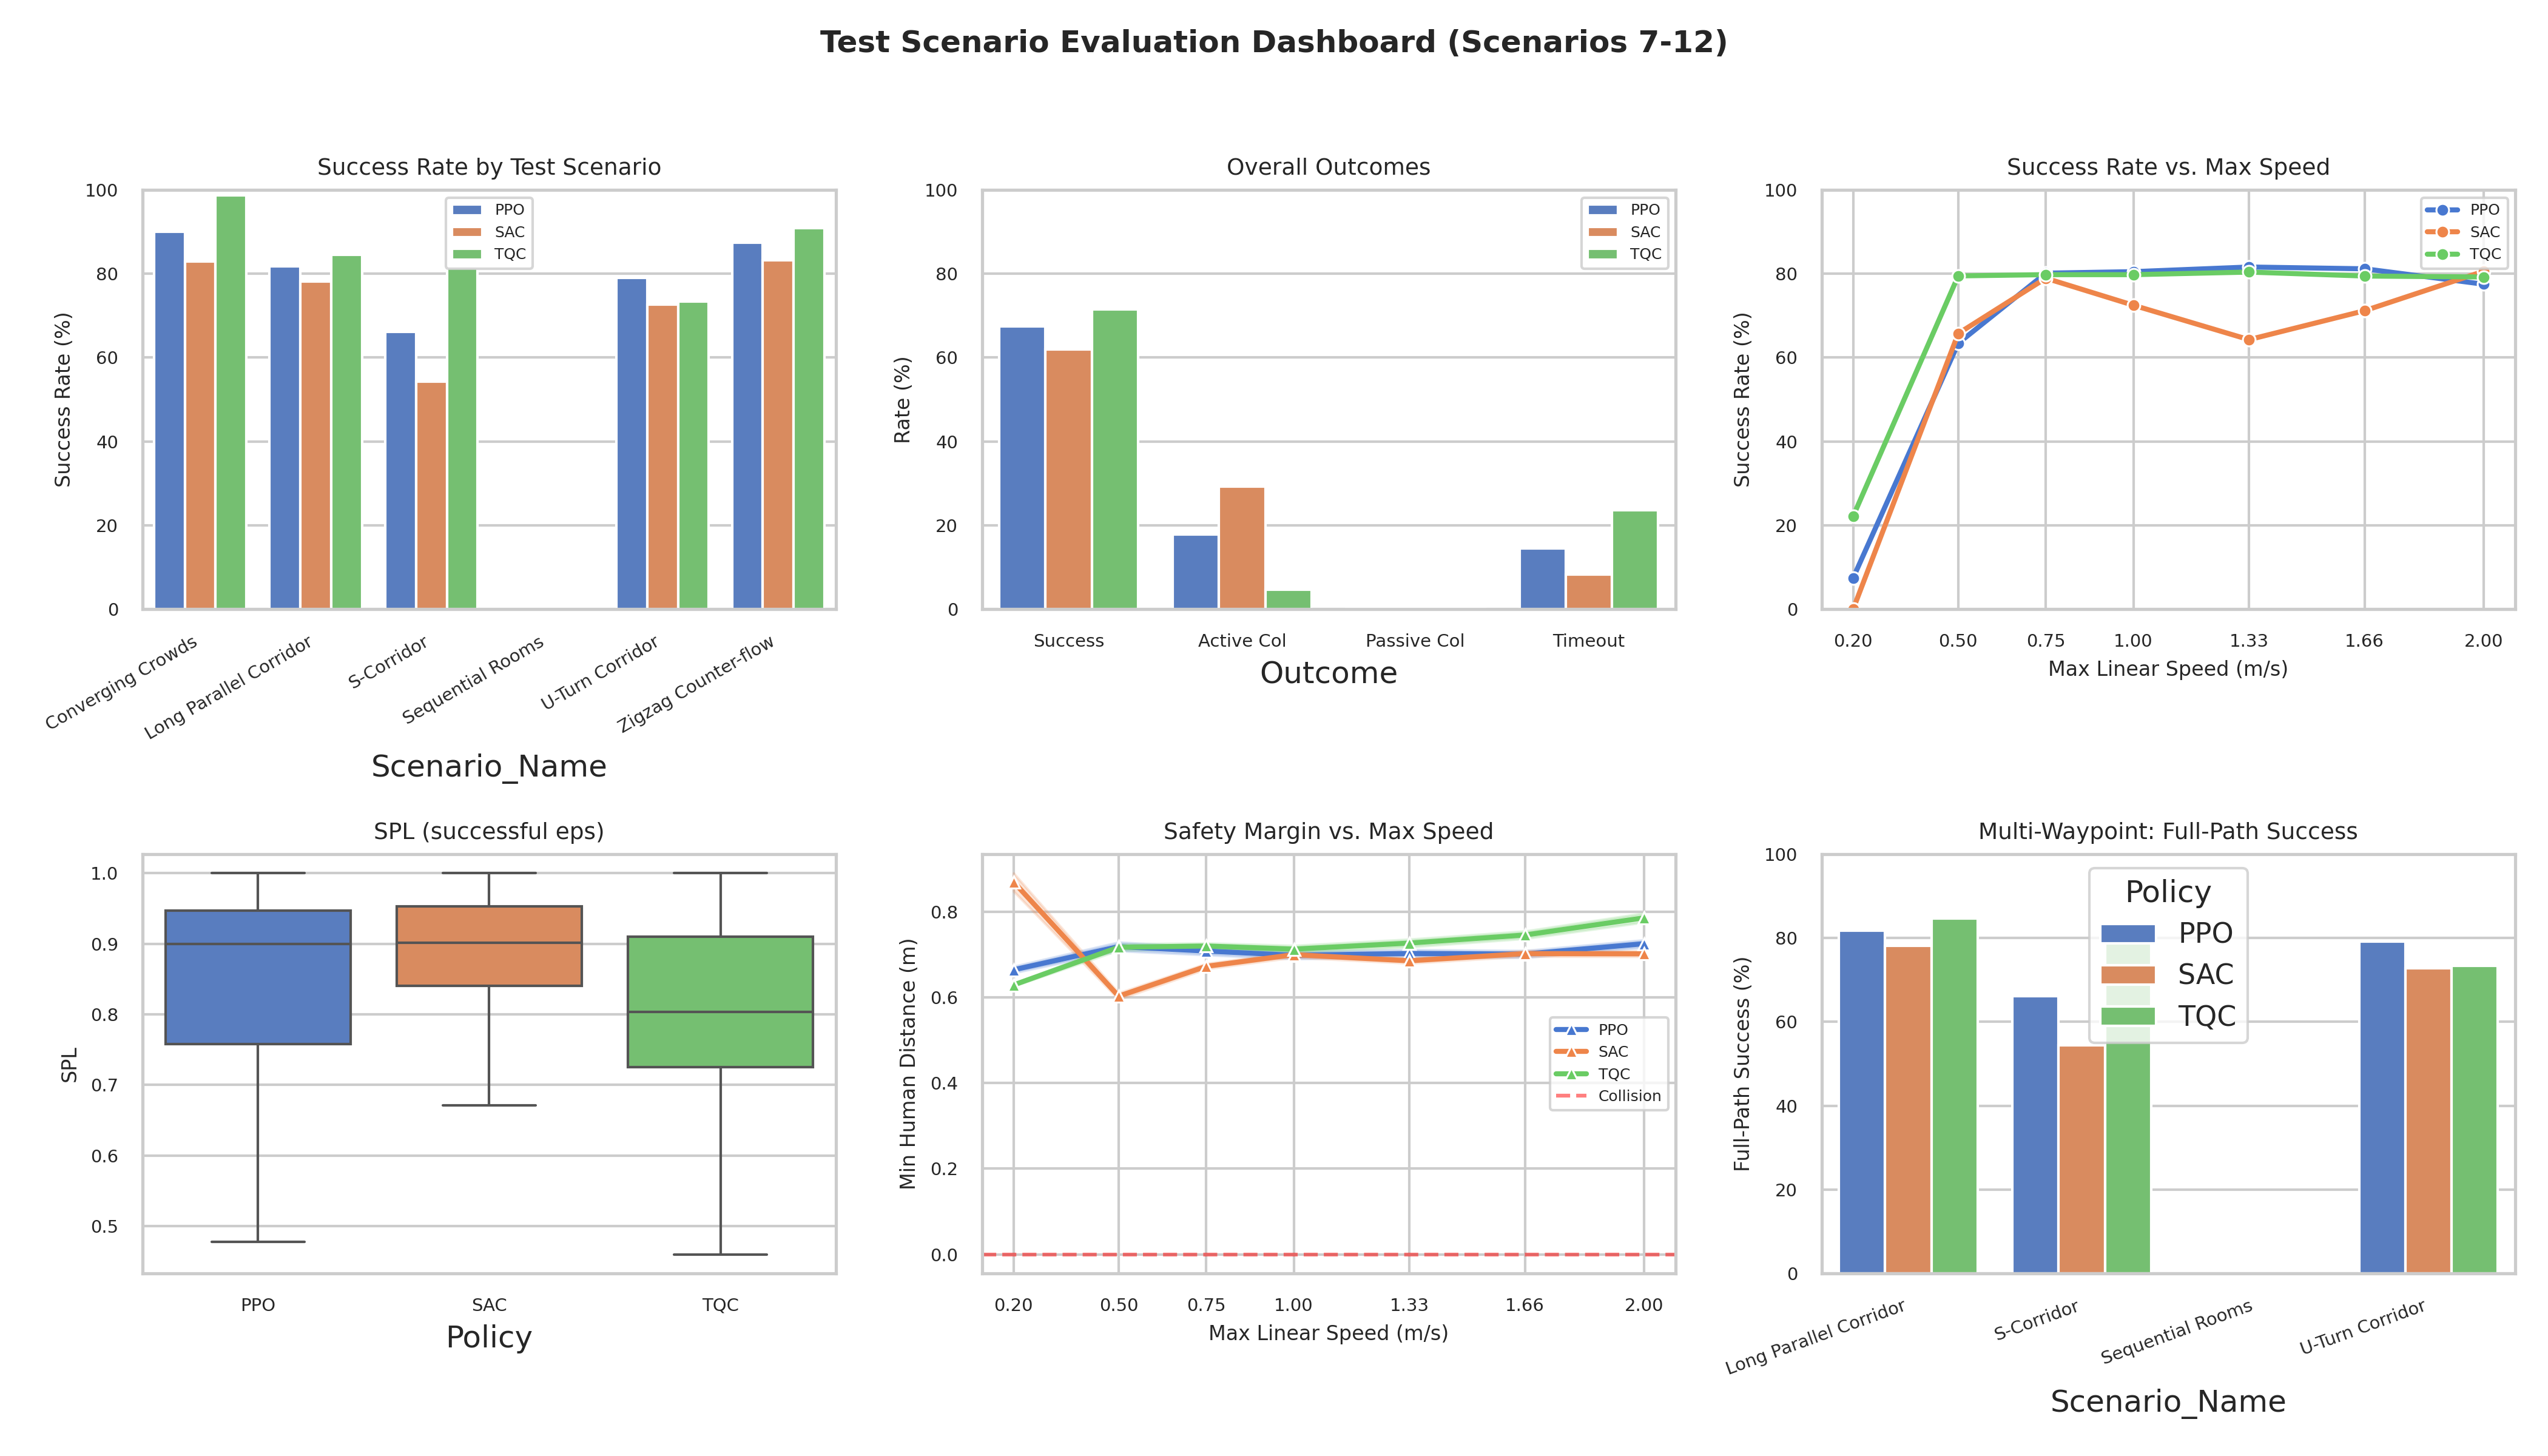
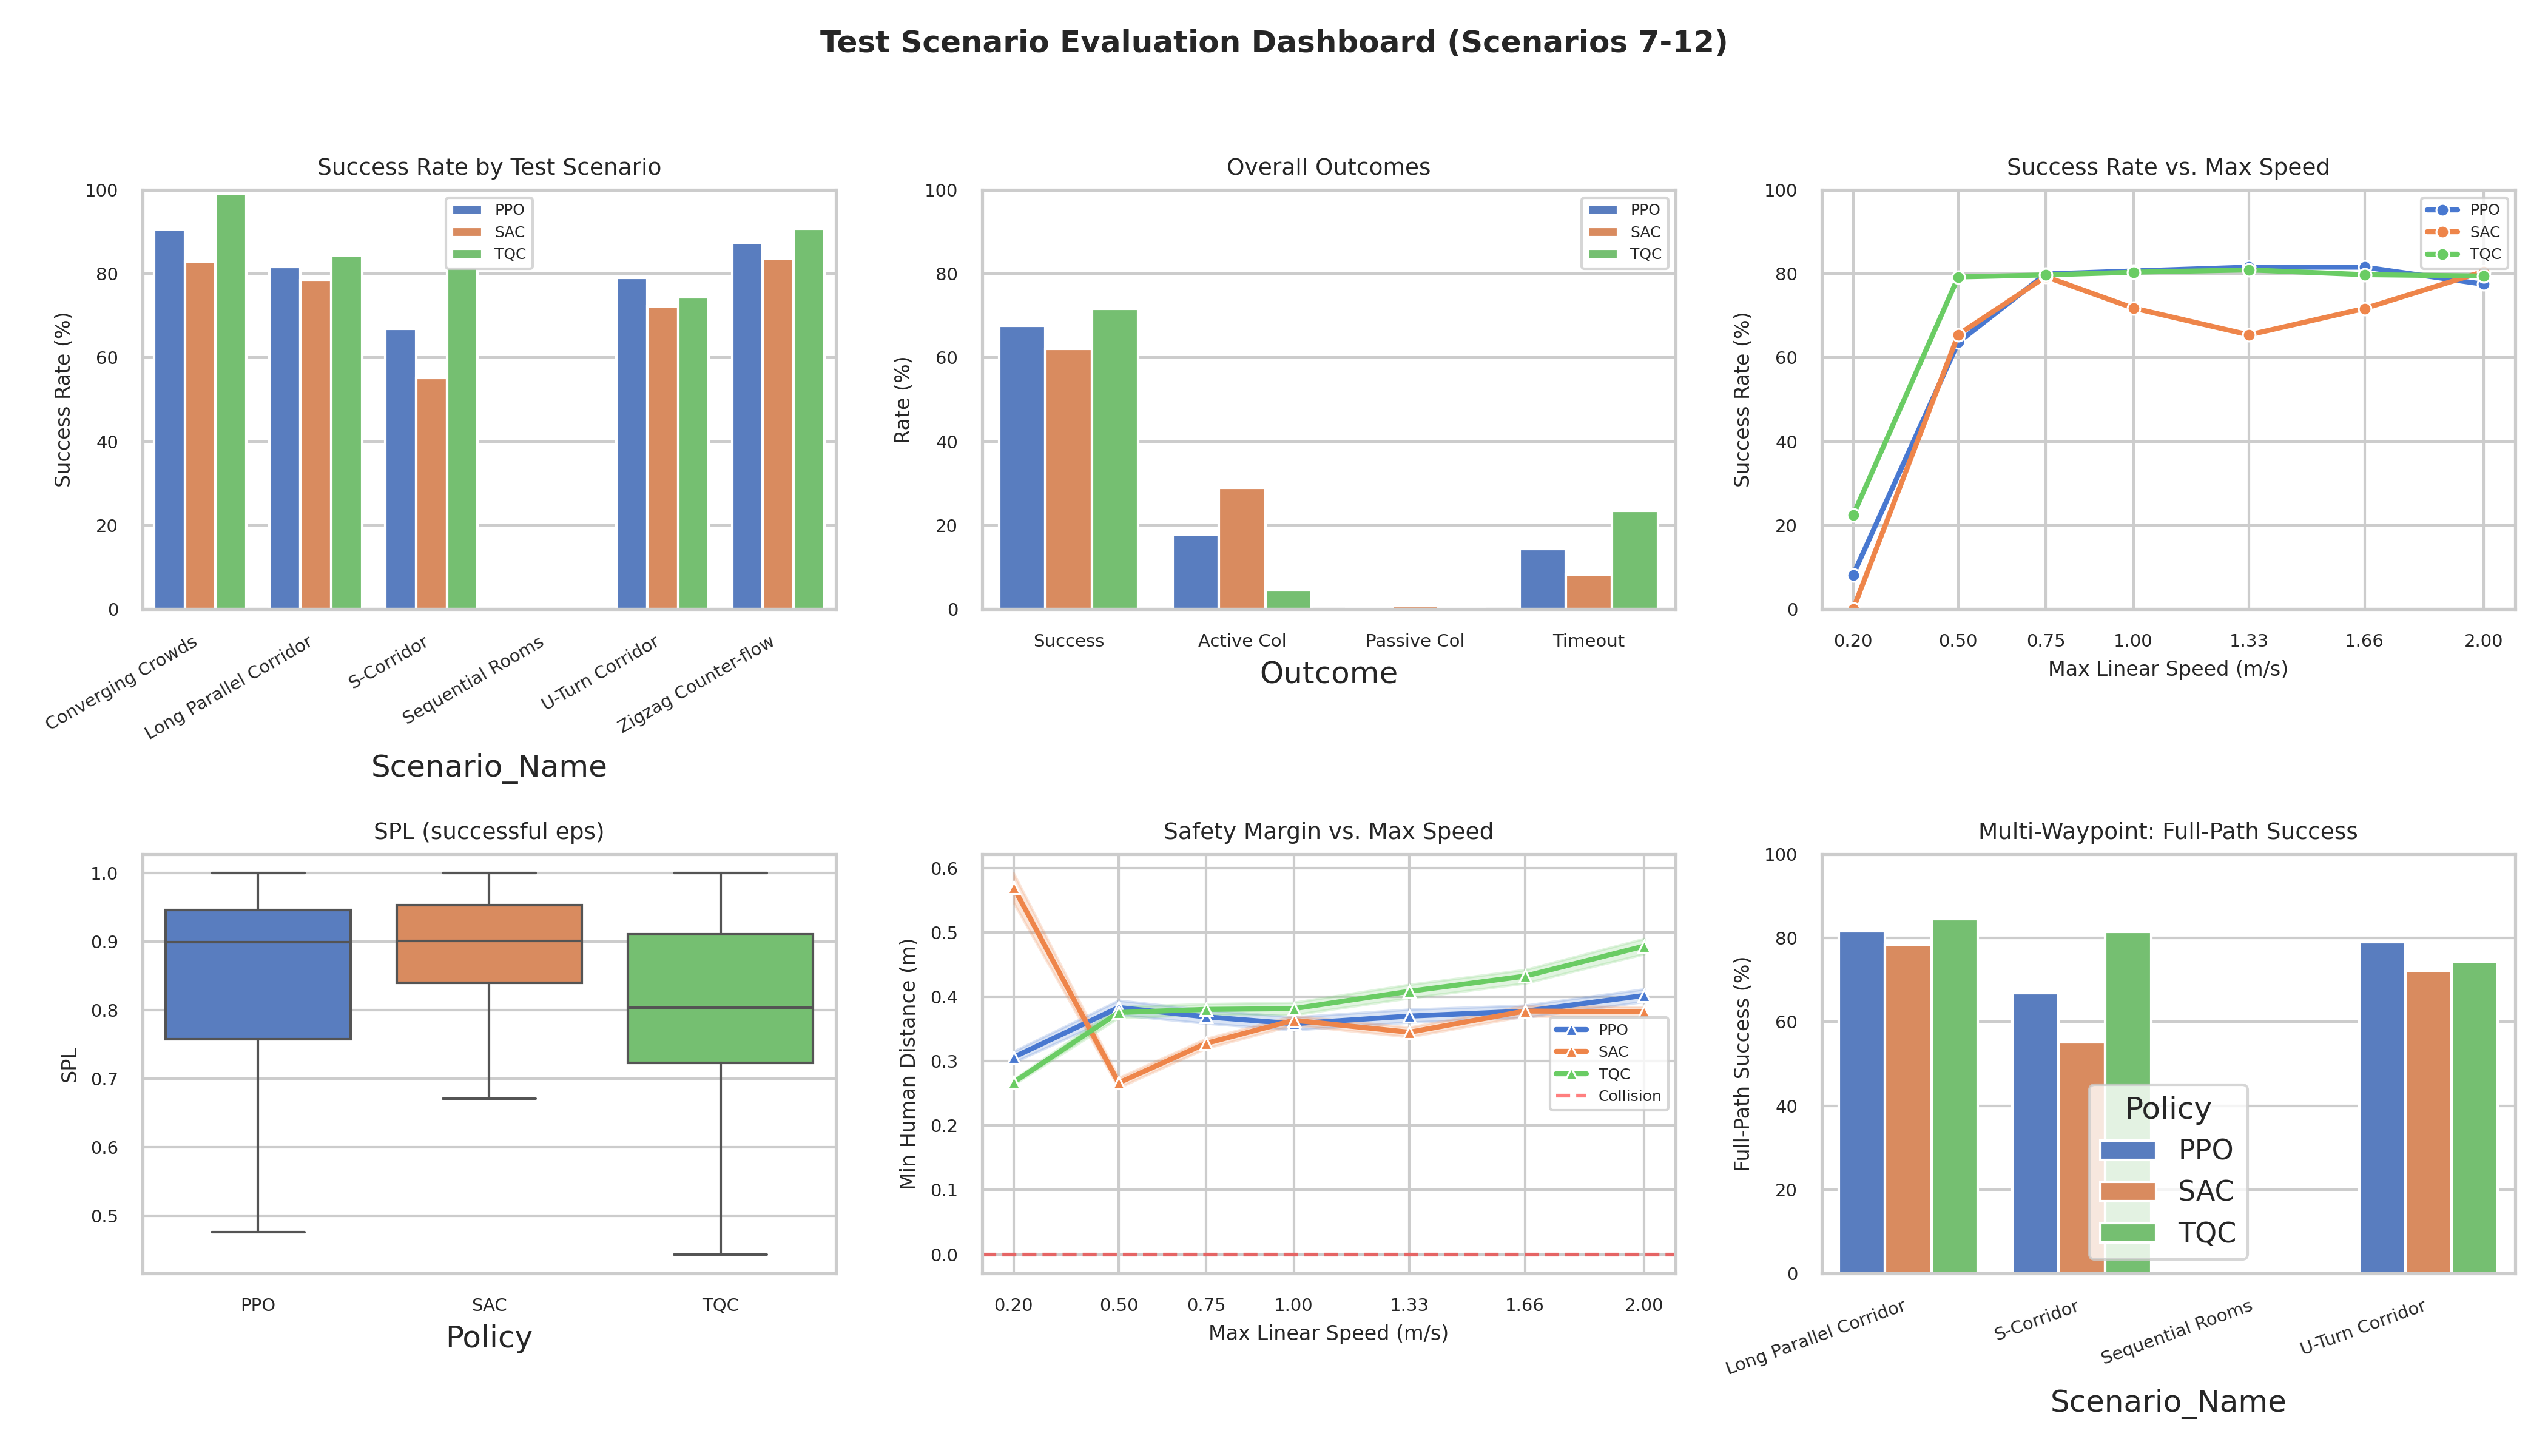
social score

diff --git a/src/jax_env/paper_comparison_eval.py b/src/jax_env/paper_comparison_eval.py
@@ -78,9 +78,14 @@ N_ENVS      = args.envs
 N_ENVS_MPPI = args.envs_mppi
 
 YIELD_DIST = 1.5   # m — yield-zone radius (same as benchmark_eval.py)
-YIELD_FOV  = 1.57  # rad ≈ 90°
+YIELD_FOV  = 0.785  # rad = 45° → 90° total FOV (±45°)
 
 HUMAN_R = LEG_RADIUS if _jax_env.USE_LEGS else PEOPLE_RADIUS
+
+# ── Social Score constants (NaviSTAR, Eq. 20-22) ─────────────────────────────
+SC_NU       = 0.35    # ν  — weight between F_time and F_scc
+SC_NU_PRIME = 0.25    # ν' — penalty factor for failure rate
+SC_DU       = 0.45    # d_u — uncomfortable distance threshold (m)
 
 # ── Stacked-env helpers (same as benchmark_eval.py) ──────────────────────────
 
@@ -192,7 +197,7 @@ def _rollout_stateless(act_vmap, n_envs, rng_key, scenario_idx):
         jv  = jnp.where(active, jnp.abs((av - av_p) / DT), 0.0)
         jw  = jnp.where(active, jnp.abs((aw - aw_p) / DT), 0.0)
 
-        step_data  = (active, g, c, ac, pc, jv + jw, v)
+        step_data  = (active, g, c, ac, pc, jv + jw, v, ch)
         next_active = active & ~done
         return (next_state, next_obs, pl, mhd, v, w, av, aw,
                 next_active, yz, yc), step_data
@@ -202,7 +207,7 @@ def _rollout_stateless(act_vmap, n_envs, rng_key, scenario_idx):
 
     (_, _, final_pl, final_mhd, _, _, _, _,
      _, final_yz, final_yc) = final_carry
-    active_mask, goals, cols, act_cols, pass_cols, jerks, step_vs = step_data
+    active_mask, goals, cols, act_cols, pass_cols, jerks, step_vs, step_ch = step_data
 
     ep_lens   = active_mask.sum(axis=0)
     ep_goal   = goals.any(axis=0)
@@ -229,6 +234,9 @@ def _rollout_stateless(act_vmap, n_envs, rng_key, scenario_idx):
         "min_dist":   final_mhd,
         "yield_score":yield_sc,
         "spl":        ep_goal * (init_dist / jnp.maximum(final_pl, init_dist)),
+        "step_ch":    step_ch,           # (MAX_STEPS, n_envs) — per-step closest human
+        "active_mask":active_mask,       # (MAX_STEPS, n_envs) — bool mask
+        "ep_lens":    ep_lens,            # (n_envs,)
     }
 
 
@@ -313,7 +321,7 @@ def _rollout_mppi(mppi, n_envs, rng_key, scenario_idx):
         new_u_mean = jnp.where(
             done[:, None, None], fresh_u_mean, new_u_mean)
 
-        step_data   = (active, g, c, ac, pc, jv + jw, v)
+        step_data   = (active, g, c, ac, pc, jv + jw, v, ch)
         next_active = active & ~done
         return (next_state, next_obs, pl, mhd, v, w, av, aw,
                 next_active, yz, yc, new_u_mean), step_data
@@ -323,7 +331,7 @@ def _rollout_mppi(mppi, n_envs, rng_key, scenario_idx):
 
     (_, _, final_pl, final_mhd, _, _, _, _,
      _, final_yz, final_yc, _) = final_carry
-    active_mask, goals, cols, act_cols, pass_cols, jerks, _ = step_data
+    active_mask, goals, cols, act_cols, pass_cols, jerks, _, step_ch = step_data
 
     ep_lens   = active_mask.sum(axis=0)
     ep_goal   = goals.any(axis=0)
@@ -348,6 +356,9 @@ def _rollout_mppi(mppi, n_envs, rng_key, scenario_idx):
         "min_dist":   final_mhd,
         "yield_score":yield_sc,
         "spl":        ep_goal * (init_dist / jnp.maximum(final_pl, init_dist)),
+        "step_ch":    step_ch,
+        "active_mask":active_mask,
+        "ep_lens":    ep_lens,
     }
 
 
@@ -516,11 +527,102 @@ POLICY_REGISTRY = [
 ]
 
 
+# ── Social Score (NaviSTAR, Eq. 20-22) ────────────────────────────────────────
+
+def _compute_social_score(raw, nu=SC_NU, nu_prime=SC_NU_PRIME, d_u=SC_DU):
+    """
+    Compute the Social Score F_SC ∈ (−∞, 100] from raw rollout metrics.
+
+    F_SC = 100 · [ν · F_time + (1 − ν) · F_scc + ν' · F_F]   (Eq. 20)
+
+    F_time  — navigation time cost          (Eq. 21)
+    F_scc   — social compliance cost         (Eq. 22)
+    F_F     — failure penalty (≤ 0)
+
+    Parameters
+    ----------
+    raw : dict  — raw metrics from _rollout_stateless / _rollout_mppi.
+    nu, nu_prime, d_u : float — paper hyperparameters.
+    """
+    success   = np.array(raw["success"]).astype(bool)
+    time_goal = np.array(raw["time_goal"])   # NaN for failed episodes
+    step_ch   = np.array(raw["step_ch"])     # (MAX_STEPS, N) closest-human dist per step
+    active    = np.array(raw["active_mask"]) # (MAX_STEPS, N) bool
+    ep_lens   = np.array(raw["ep_lens"])     # (N,)
+    n_total   = len(success)
+
+    # ── F_time (Eq. 21) ──────────────────────────────────────────────────────
+    # "min" = minimum navigation time in ALL cases (including failed, counted
+    # as ep_lens * DT), "max" = maximum time among successful cases.
+    all_times = ep_lens * DT
+    suc_times = time_goal[success]
+
+    if len(suc_times) == 0:
+        # No successful episodes → F_time undefined; score is dominated by F_F
+        F_time = 0.0
+    else:
+        t_min = float(all_times.min())     # min time across ALL cases
+        t_max = float(suc_times.max())     # max time among successful cases
+        denom = t_max - t_min if t_max > t_min else 1.0
+        F_time = 1.0 - float(np.mean((suc_times - t_min) / denom))
+        F_time = float(np.clip(F_time, 0.0, 1.0))
+
+    # ── F_scc (Eq. 22) ───────────────────────────────────────────────────────
+    # Identify "uncomfortable segments": steps where closest human < d_u.
+    # For each episode, compute  (d_u · #uncomfortable_steps) / sum(closest_dist)
+    # then average via sigmoid and mix with K1/K2.
+    K1 = int(success.sum())    # number of successful cases
+
+    # Per-episode: sum of closest-human distances (integral ∫dis·dt approximated
+    # as Σ dis_t · Δt, but Δt = DT is constant so it cancels with d_u · Δt in
+    # the numerator).
+    # Uncomfortable episodes = those with at least one step where ch < d_u.
+    ch_active = np.where(active, step_ch, np.inf)   # mask out inactive steps
+    uncomf_mask = ch_active < d_u                    # (MAX_STEPS, N)
+    has_uncomf  = uncomf_mask.any(axis=0)            # (N,) episodes with any uncomfortable step
+    K2 = int(has_uncomf.sum())
+
+    if K2 == 0:
+        # No uncomfortable segments at all → perfect social compliance
+        F_scc = 1.0
+    else:
+        # For each episode with uncomfortable segments, compute the ratio
+        # r_k = (d_u · Δt · #uncomf_steps) / (Σ_{all active steps} dis_t · Δt)
+        # Δt cancels:  r_k = (d_u · #uncomf_steps) / Σ dis_t
+        n_uncomf_steps = uncomf_mask.sum(axis=0)                      # (N,)
+        sum_dist       = np.where(active, step_ch, 0.0).sum(axis=0)  # (N,)
+        sum_dist       = np.maximum(sum_dist, 1e-8)
+
+        ratio = (d_u * n_uncomf_steps) / sum_dist   # (N,)
+        # Only consider episodes that have uncomfortable segments
+        ratio_uncomf = ratio[has_uncomf]
+
+        # sigmoid(r - 1) as in the paper
+        sig_vals = 1.0 / (1.0 + np.exp(-(ratio_uncomf - 1.0)))
+        avg_sig  = float(np.mean(sig_vals))
+
+        k1_k2_ratio = K1 / K2 if K2 > 0 else 1.0
+        F_scc = 1.0 - 0.5 * (avg_sig + k1_k2_ratio)
+        F_scc = float(np.clip(F_scc, 0.0, 1.0))
+
+    # ── F_F (failure penalty, ≤ 0) ───────────────────────────────────────────
+    n_collision = int(np.array(raw["obs_col"]).sum() +
+                      np.array(raw["act_col"]).sum() +
+                      np.array(raw["pass_col"]).sum())
+    n_timeout   = int(np.array(raw["timeout"]).sum())
+    F_F = -(n_collision + n_timeout) / max(n_total, 1)
+
+    # ── Final social score ────────────────────────────────────────────────────
+    F_SC = 100.0 * (nu * F_time + (1.0 - nu) * F_scc + nu_prime * F_F)
+    return float(F_SC)
+
+
 # ── Aggregate helper ───────────────────────────────────────────────────────────
 
 def _agg(raw):
     """Compute mean from a raw metrics dict (arrays of shape N_ENVS)."""
     n = len(raw["success"])
+    social_sc = _compute_social_score(raw)
     return {
         "N":           n,
         "Success":     float(np.mean(raw["success"])) * 100,
@@ -532,6 +634,7 @@ def _agg(raw):
         "Jerk":        float(np.nanmean(raw["jerk"])),
         "Time to Goal":float(np.nanmean(raw["time_goal"])),
         "Min Dist (m)":float(np.mean(raw["min_dist"])),
+        "Social Score":social_sc,
     }
 
 
@@ -545,10 +648,11 @@ def _print_latex(rows):
         r"$v_{\max} \sim \mathcal{U}[0.2,\,2.0]$~m/s}" "\n"
         r"\label{tab:comparison}" "\n"
         r"\footnotesize" "\n"
-        r"\begin{tabular}{lcccccccc}" "\n"
+        r"\begin{tabular}{lccccccccccc}" "\n"
         r"\toprule" "\n"
         r"Method & Type & Success (\%) & Obst. Col. (\%) & Act. Col. (\%) "
-        r"& Pass. Col. (\%) & Timeout (\%) & Yield Score & Jerk & Time (s) & Min Dist (m) \\" "\n"
+        r"& Pass. Col. (\%) & Timeout (\%) & Yield Score & Jerk & Time (s) "
+        r"& Min Dist (m) & $F_{SC}$ \\" "\n"
         r"\midrule"
     )
     print(header)
@@ -560,7 +664,8 @@ def _print_latex(rows):
             f"{r['Act. Col.']:.1f} & {r['Pass. Col.']:.1f} & "
             f"{r['Timeout']:.1f} & "
             f"{r['Yield Score']:.2f} & {r['Jerk']:.1f} & "
-            f"{r['Time to Goal']:.1f} & {r['Min Dist (m)']:.2f} \\\\"
+            f"{r['Time to Goal']:.1f} & {r['Min Dist (m)']:.2f} & "
+            f"{r['Social Score']:.1f} \\\\"
         )
     print(r"\bottomrule")
     print(r"\end{tabular}")
@@ -686,7 +791,8 @@ def main():
               f"Yield={metrics['Yield Score']:.2f}  "
               f"Jerk={metrics['Jerk']:.1f}  "
               f"T={metrics['Time to Goal']:.1f}s  "
-              f"MinD={metrics['Min Dist (m)']:.2f}m\n")
+              f"MinD={metrics['Min Dist (m)']:.2f}m  "
+              f"SocSc={metrics['Social Score']:.1f}\n")
 
         rows.append({"Method": name, "Type": category, **metrics})
 
@@ -706,7 +812,8 @@ def main():
     print("RESULTS TABLE (aggregated over scenarios 7-12, random v_max)")
     print("="*70)
     cols_show = ["Method", "Type", "Success", "Obst. Col.", "Act. Col.",
-                 "Pass. Col.", "Timeout", "Yield Score", "Jerk", "Time to Goal", "Min Dist (m)"]
+                 "Pass. Col.", "Timeout", "Yield Score", "Jerk", "Time to Goal",
+                 "Min Dist (m)", "Social Score"]
     print(df[cols_show].to_string(index=False, float_format="%.2f"))
 
     print("\n" + "="*70)

diff --git a/src/jax_env/benchmark_eval.py b/src/jax_env/benchmark_eval.py
@@ -162,7 +162,12 @@ def step_stacked_headless(key, state: StackedEnvState, action):
 # ── Core Evaluation Kernel ───────────────────────────────────────────────────
 
 YIELD_DIST = 1.5
-YIELD_FOV  = 1.57
+YIELD_FOV  = 0.785  # rad = 45° → 90° total FOV (±45°)
+
+# ── Social Score constants (NaviSTAR, Eq. 20-22) ─────────────────────────────
+SC_NU       = 0.35    # ν  — weight between F_time and F_scc
+SC_NU_PRIME = 0.25    # ν' — penalty factor for failure rate
+SC_DU       = 0.45    # d_u — uncomfortable distance threshold (m)
 
 def _rollout_body(net_apply_fn, squash_fn, params, scen_idx, target_max_v, rng_key):
     reset_keys = jax.random.split(rng_key, N_ENVS)
@@ -274,6 +279,9 @@ def _rollout_body(net_apply_fn, squash_fn, params, scen_idx, target_max_v, rng_k
         "yield_score": yield_score,
         "step_dists":  step_dists,
         "step_vs":     step_vs,
+        "step_ch":     step_dists,    # closest human (NaN-masked by active)
+        "active_mask": active_mask,   # (MAX_STEPS, N_ENVS) bool
+        "ep_lens":     ep_lens,       # (N_ENVS,)
     }
 
 
@@ -294,6 +302,68 @@ def evaluate_cell_tqc(params, scen_idx, target_max_v, rng_key):
                          scen_idx, target_max_v, rng_key)
 
 _EVAL_FN = {"PPO": evaluate_cell_ppo, "SAC": evaluate_cell_sac, "TQC": evaluate_cell_tqc}
+
+
+# ── Social Score (NaviSTAR, Eq. 20-22) ────────────────────────────────────────
+
+def _compute_social_score(cell, nu=SC_NU, nu_prime=SC_NU_PRIME, d_u=SC_DU):
+    """
+    Compute the Social Score F_SC ∈ (−∞, 100] from a single evaluation cell.
+
+    F_SC = 100 · [ν · F_time + (1 − ν) · F_scc + ν' · F_F]   (Eq. 20)
+    """
+    success   = np.array(cell["success"]).astype(bool)
+    ep_lens   = np.array(cell["ep_lens"])
+    active    = np.array(cell["active_mask"])   # (MAX_STEPS, N)
+    # step_ch has NaN for inactive steps; replace NaN with inf for masking
+    step_ch_raw = np.array(cell["step_ch"])     # (MAX_STEPS, N)
+    step_ch = np.where(np.isfinite(step_ch_raw), step_ch_raw, np.inf)
+    active_bool = np.array(active).astype(bool)
+    n_total = len(success)
+
+    # ── F_time (Eq. 21) ──────────────────────────────────────────────────────
+    all_times = ep_lens * DT
+    suc_times = np.array(cell["time"])
+    suc_times = suc_times[success]
+    suc_times = suc_times[np.isfinite(suc_times)]
+
+    if len(suc_times) == 0:
+        F_time = 0.0
+    else:
+        t_min = float(all_times.min())
+        t_max = float(suc_times.max())
+        denom = t_max - t_min if t_max > t_min else 1.0
+        F_time = 1.0 - float(np.mean((suc_times - t_min) / denom))
+        F_time = float(np.clip(F_time, 0.0, 1.0))
+
+    # ── F_scc (Eq. 22) ───────────────────────────────────────────────────────
+    K1 = int(success.sum())
+    ch_for_mask = np.where(active_bool, step_ch, np.inf)
+    uncomf_mask = ch_for_mask < d_u
+    has_uncomf  = uncomf_mask.any(axis=0)
+    K2 = int(has_uncomf.sum())
+
+    if K2 == 0:
+        F_scc = 1.0
+    else:
+        n_uncomf_steps = uncomf_mask.sum(axis=0)
+        sum_dist = np.where(active_bool, step_ch, 0.0).sum(axis=0)
+        sum_dist = np.maximum(sum_dist, 1e-8)
+        ratio = (d_u * n_uncomf_steps) / sum_dist
+        ratio_uncomf = ratio[has_uncomf]
+        sig_vals = 1.0 / (1.0 + np.exp(-(ratio_uncomf - 1.0)))
+        avg_sig  = float(np.mean(sig_vals))
+        k1_k2_ratio = K1 / K2 if K2 > 0 else 1.0
+        F_scc = 1.0 - 0.5 * (avg_sig + k1_k2_ratio)
+        F_scc = float(np.clip(F_scc, 0.0, 1.0))
+
+    # ── F_F (failure penalty, ≤ 0) ───────────────────────────────────────────
+    n_col     = int(np.array(cell["act_col"]).sum() + np.array(cell["pass_col"]).sum())
+    n_timeout = int(np.array(cell["timeout"]).sum())
+    F_F = -(n_col + n_timeout) / max(n_total, 1)
+
+    F_SC = 100.0 * (nu * F_time + (1.0 - nu) * F_scc + nu_prime * F_F)
+    return float(F_SC)
 
 
 # ── Checkpoint loading ───────────────────────────────────────────────────────
@@ -976,6 +1046,7 @@ def main():
                 "Min Dist":      cell["min_dist"],
                 "Time to Goal":  cell["time"],
                 "Yield Score":   cell["yield_score"],
+                "Social Score":  _compute_social_score(cell),
             }))
 
         scatter_data[p_name] = (np.concatenate(sd_list), np.concatenate(sv_list))

diff --git a/src/jax_env/jax_eval_multi.py b/src/jax_env/jax_eval_multi.py
@@ -43,8 +43,9 @@ import flax.serialization
 def _parse_args():
     p = argparse.ArgumentParser(description="Universal JAX Evaluation")
     p.add_argument("--algo",     default="ppo",
-                   choices=["ppo", "shac", "sac", "tqc", "mlp", "hsfm", "mppi"],
+                   choices=["ppo", "shac", "sac", "tqc", "mlp", "hsfm", "mppi", "ppo_circles"],
                    help="Algorithm whose checkpoint to load. "
+                        "'ppo_circles' = PPO model trained with circle humans. "
                         "'mlp' = Vanilla 2×128 MLP baseline (ppo_mlp_baseline.py). "
                         "'hsfm' = JHSFM model-based planner. "
                         "'mppi' = Model Predictive Path Integral (no checkpoint).")
@@ -339,6 +340,7 @@ def _build_mppi():
 
 _DEFAULT_CKPT = {
     "ppo":  "checkpoints/ppo_attn_final.msgpack",
+    "ppo_circles": "checkpoints/ppo_circles_best.msgpack",
     "shac": "checkpoints/shac_best.msgpack",
     "sac":  "checkpoints_sac/sac_best.msgpack",
     "tqc":  "checkpoints_tqc/tqc_best.msgpack",
@@ -350,7 +352,7 @@ _DEFAULT_CKPT = {
 # ── Policy factory ─────────────────────────────────────────────────────────────
 
 def build_policy(algo):
-    if algo in ("ppo", "shac"):
+    if algo in ("ppo", "shac", "ppo_circles"):
         return _build_ppo_shac()    # 4 elementi
     elif algo == "sac":
         return _build_sac() + (0,)  # 3 + 1 = 4 elementi
@@ -363,7 +365,7 @@ def build_policy(algo):
     elif algo == "mppi":
         return _build_mppi()        # 4 elementi (infer_fn carries reset_hook attribute)
     else:
-        raise ValueError(f"Unknown algo: {algo}. Valid: ppo, shac, sac, tqc, mlp, hsfm, mppi")
+        raise ValueError(f"Unknown algo: {algo}. Valid: ppo, ppo_circles, shac, sac, tqc, mlp, hsfm, mppi")
 
 
 # ══════════════════════════════════════════════════════════════════════════════

diff --git a/src/jax_env/test_scenarios_eval.py b/src/jax_env/test_scenarios_eval.py
@@ -39,7 +39,7 @@ import flax.serialization
 def _parse_args():
     p = argparse.ArgumentParser(description="Test Scenario Evaluation")
     p.add_argument("--algo", default="sac",
-                   choices=["ppo", "shac", "sac", "tqc", "mlp", "navrep", "tagd", "mppi"])
+                   choices=["ppo", "shac", "sac", "tqc", "mlp", "navrep", "tagd", "mppi", "ppo_circles"])
     p.add_argument("--ckpt", default="")
     p.add_argument("--legs",    dest="use_legs", action="store_true",  default=True)
     p.add_argument("--no-legs", dest="use_legs", action="store_false")